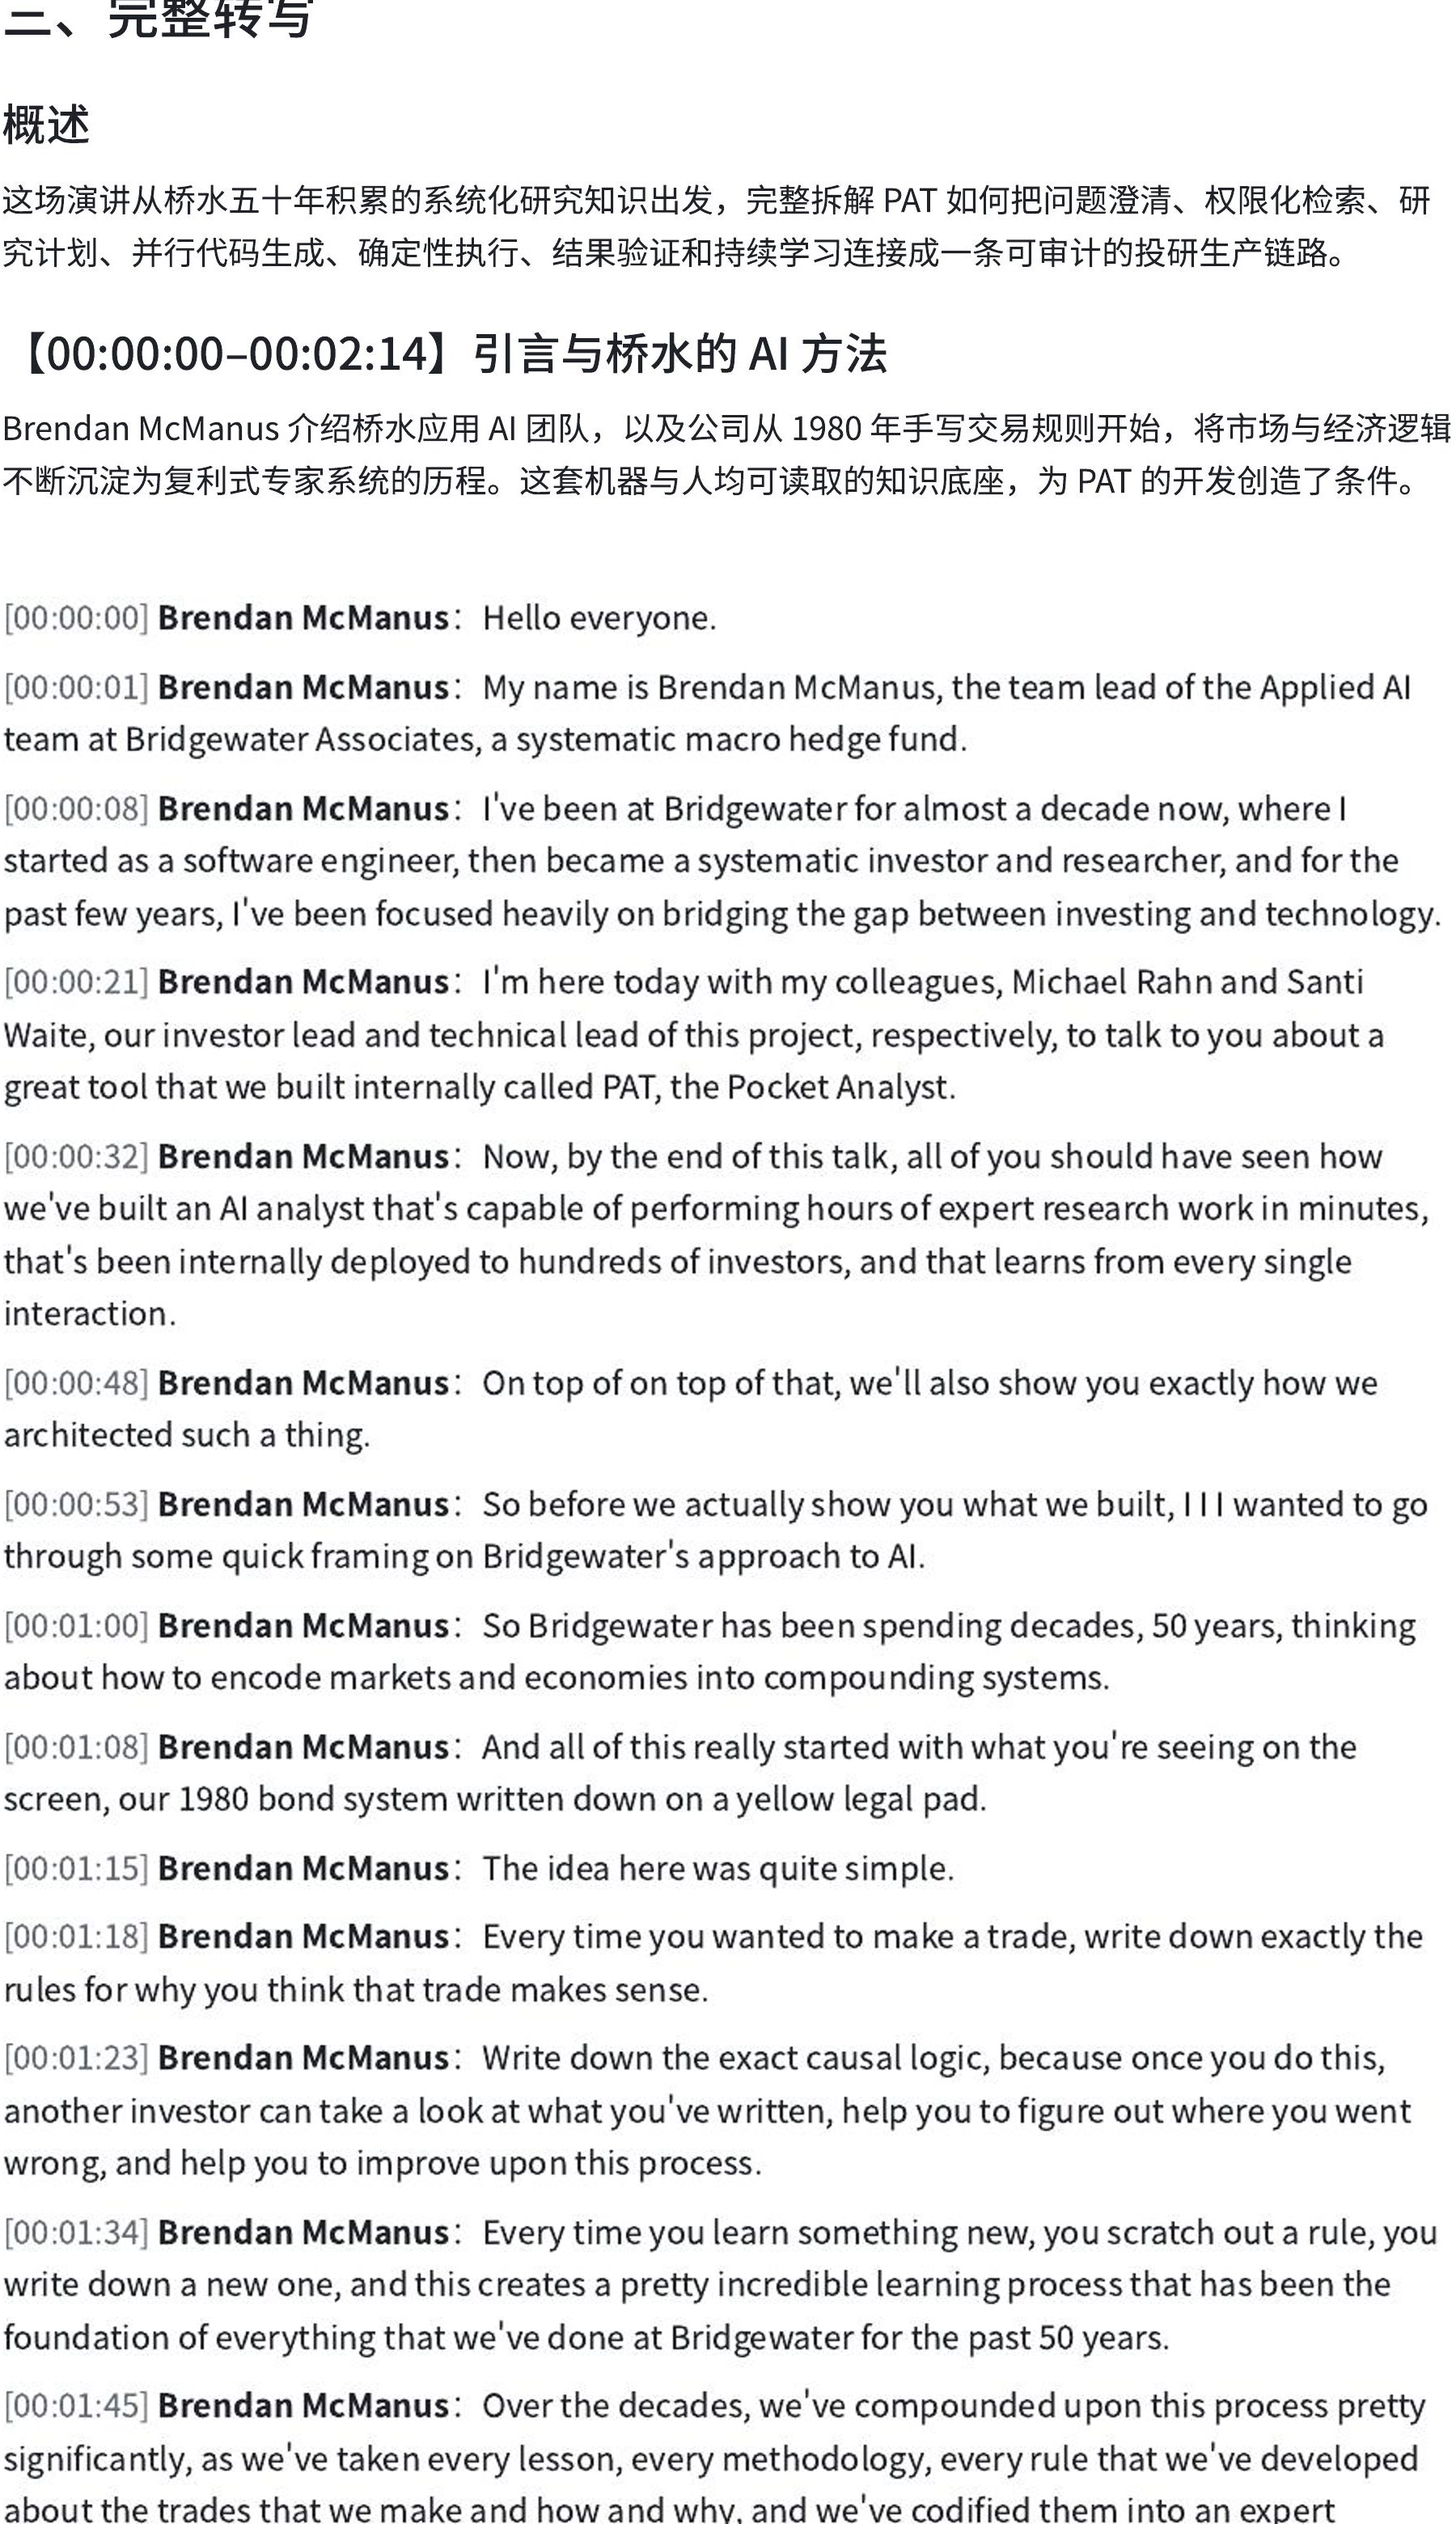
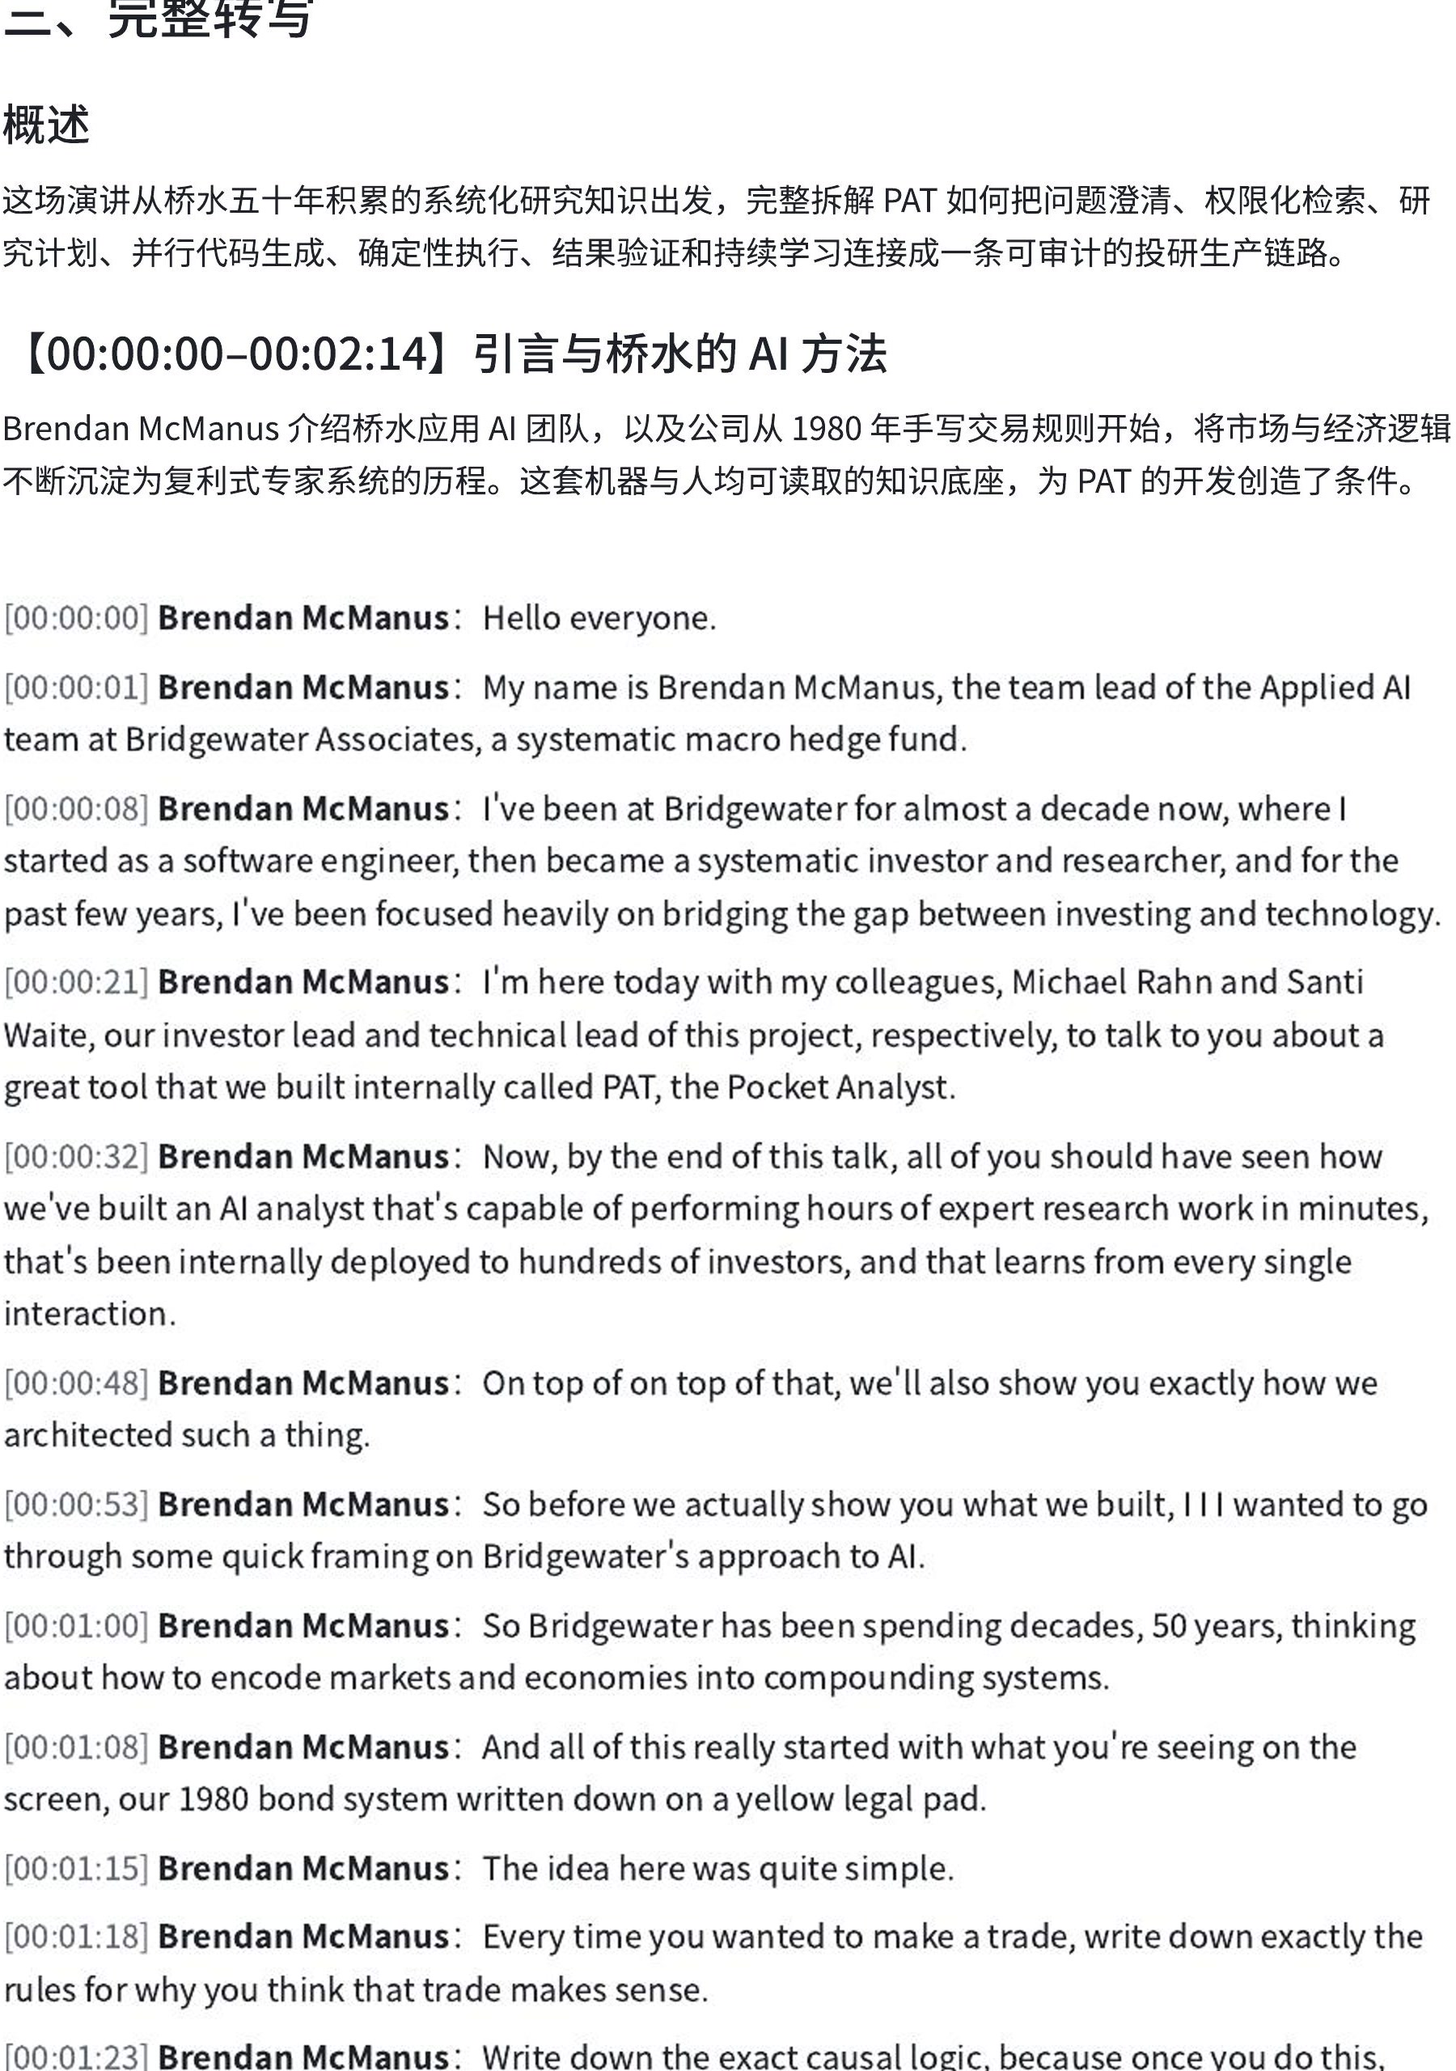
Align the three README previews

Changed region(s): [[0.0, 0.0, 0.9956, 1.0], [0.0622, 0.0, 0.2178, 0.0312], [0.9644, 0.0625, 0.9956, 0.0938]]

diff --git a/README_EN.md b/README_EN.md
@@ -8,9 +8,9 @@ Turn a phone recording, meeting, or interview into an **editable Feishu document
 
 <table>
   <tr>
-    <td width="33%"><a href="examples/sections/01-overview.jpg"><img src="examples/sections/01-overview.jpg" alt="Overview"></a><br><strong>1. Overview</strong></td>
-    <td width="33%"><a href="examples/sections/02-ai-minutes.jpg"><img src="examples/sections/02-ai-minutes.jpg" alt="AI minutes"></a><br><strong>2. AI minutes</strong></td>
-    <td width="33%"><a href="examples/sections/03-transcript.jpg"><img src="examples/sections/03-transcript.jpg" alt="Full transcript"></a><br><strong>3. Full transcript</strong></td>
+    <td width="33%"><a href="examples/sections/01-ai-board.jpg"><img src="examples/sections/01-ai-board.jpg" alt="AI minutes whiteboard"></a><br><strong>AI minutes · board</strong></td>
+    <td width="33%"><a href="examples/sections/02-ai-notes.jpg"><img src="examples/sections/02-ai-notes.jpg" alt="AI minutes text"></a><br><strong>AI minutes · text</strong></td>
+    <td width="33%"><a href="examples/sections/03-transcript.jpg"><img src="examples/sections/03-transcript.jpg" alt="Full transcript"></a><br><strong>Full transcript</strong></td>
   </tr>
 </table>
 

diff --git a/README.md b/README.md
@@ -8,9 +8,9 @@
 
 <table>
   <tr>
-    <td width="33%"><a href="examples/sections/01-overview.jpg"><img src="examples/sections/01-overview.jpg" alt="一、内容概览"></a><br><strong>一、内容概览</strong></td>
-    <td width="33%"><a href="examples/sections/02-ai-minutes.jpg"><img src="examples/sections/02-ai-minutes.jpg" alt="二、AI 纪要"></a><br><strong>二、AI 纪要</strong></td>
-    <td width="33%"><a href="examples/sections/03-transcript.jpg"><img src="examples/sections/03-transcript.jpg" alt="三、完整转写"></a><br><strong>三、完整转写</strong></td>
+    <td width="33%"><a href="examples/sections/01-ai-board.jpg"><img src="examples/sections/01-ai-board.jpg" alt="AI 纪要画板"></a><br><strong>AI 纪要 · 画板</strong></td>
+    <td width="33%"><a href="examples/sections/02-ai-notes.jpg"><img src="examples/sections/02-ai-notes.jpg" alt="AI 纪要文字"></a><br><strong>AI 纪要 · 文字</strong></td>
+    <td width="33%"><a href="examples/sections/03-transcript.jpg"><img src="examples/sections/03-transcript.jpg" alt="完整转写"></a><br><strong>完整转写</strong></td>
   </tr>
 </table>
 
